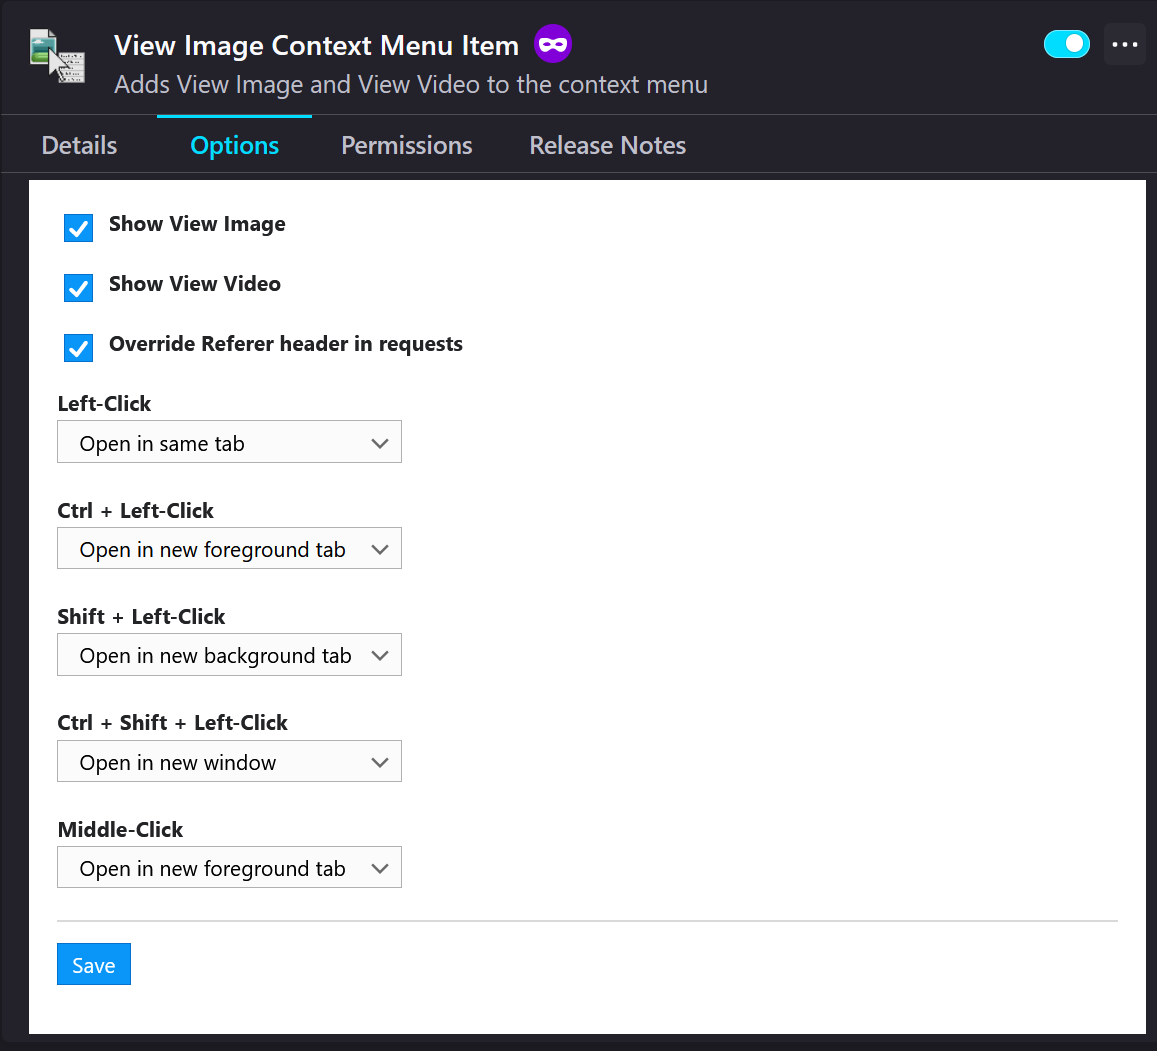
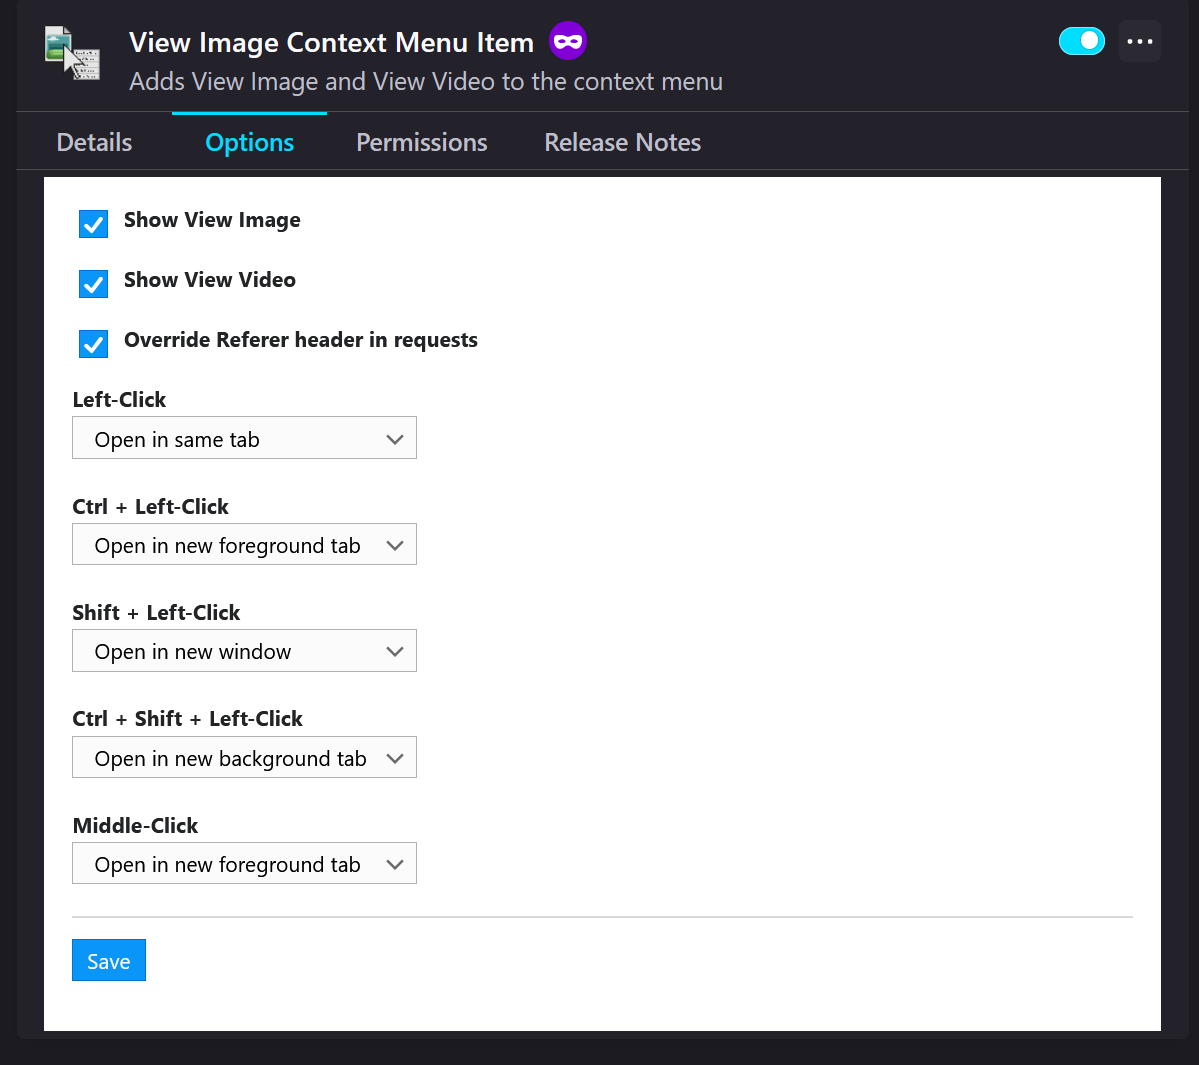
Version 2.1.1 - fix typo and wrong defaults

Changed region(s): [[0.0, 0.0, 0.9957, 1.0], [0.8712, 0.0, 0.9646, 0.0609], [0.3111, 0.3958, 0.3423, 0.4263]]

diff --git a/viewImageContextMenuItem/background.js b/viewImageContextMenuItem/background.js
@@ -104,8 +104,8 @@ function generateDefaultOptions() {
     "override-referer": true,
     "left-click-action": "same-tab",
     "ctrl-left-click-action": "new-foreground-tab",
-    "shift-left-click-action": "new-background-tab",
-    "ctrl-shift-left-click-action": "new-foreground-window",
+    "shift-left-click-action": "new-foreground-window",
+    "ctrl-shift-left-click-action": "new-background-tab",
     "middle-click-action": "new-foreground-tab"
   };
 }

diff --git a/viewImageContextMenuItem/options.js b/viewImageContextMenuItem/options.js
@@ -5,8 +5,8 @@ function generateDefaultOptions() {
     "override-referer": true,
     "left-click-action": "same-tab",
     "ctrl-left-click-action": "new-foreground-tab",
-    "shift-left-click-action": "new-background-tab",
-    "ctrl-shift-left-click-action": "new-foreground-window",
+    "shift-left-click-action": "new-foreground-window",
+    "ctrl-shift-left-click-action": "new-background-tab",
     "middle-click-action": "new-foreground-tab"
   };
 }
